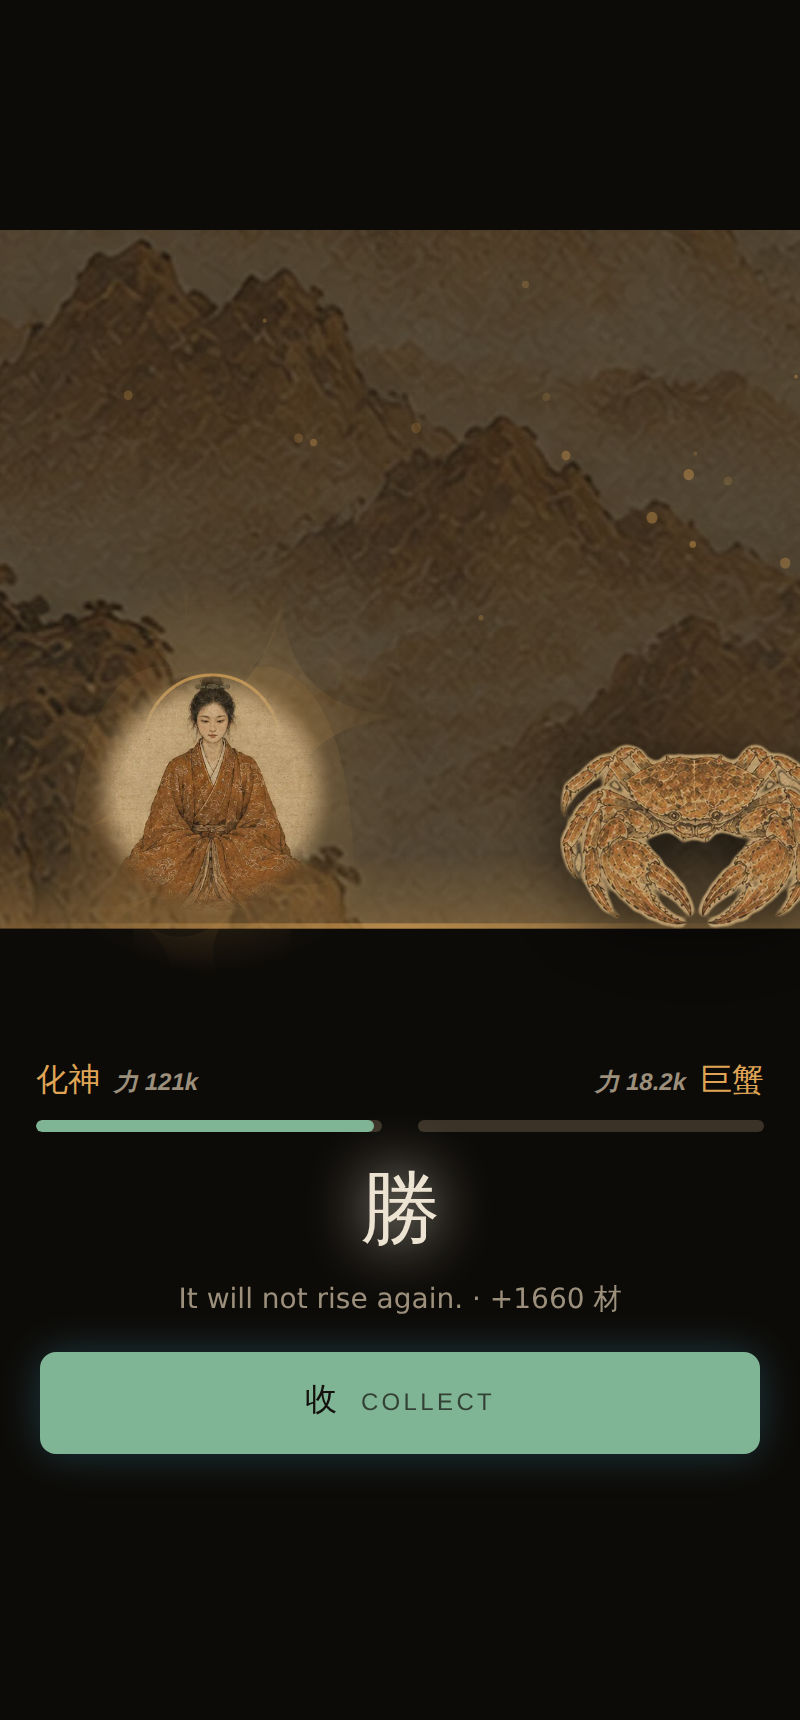
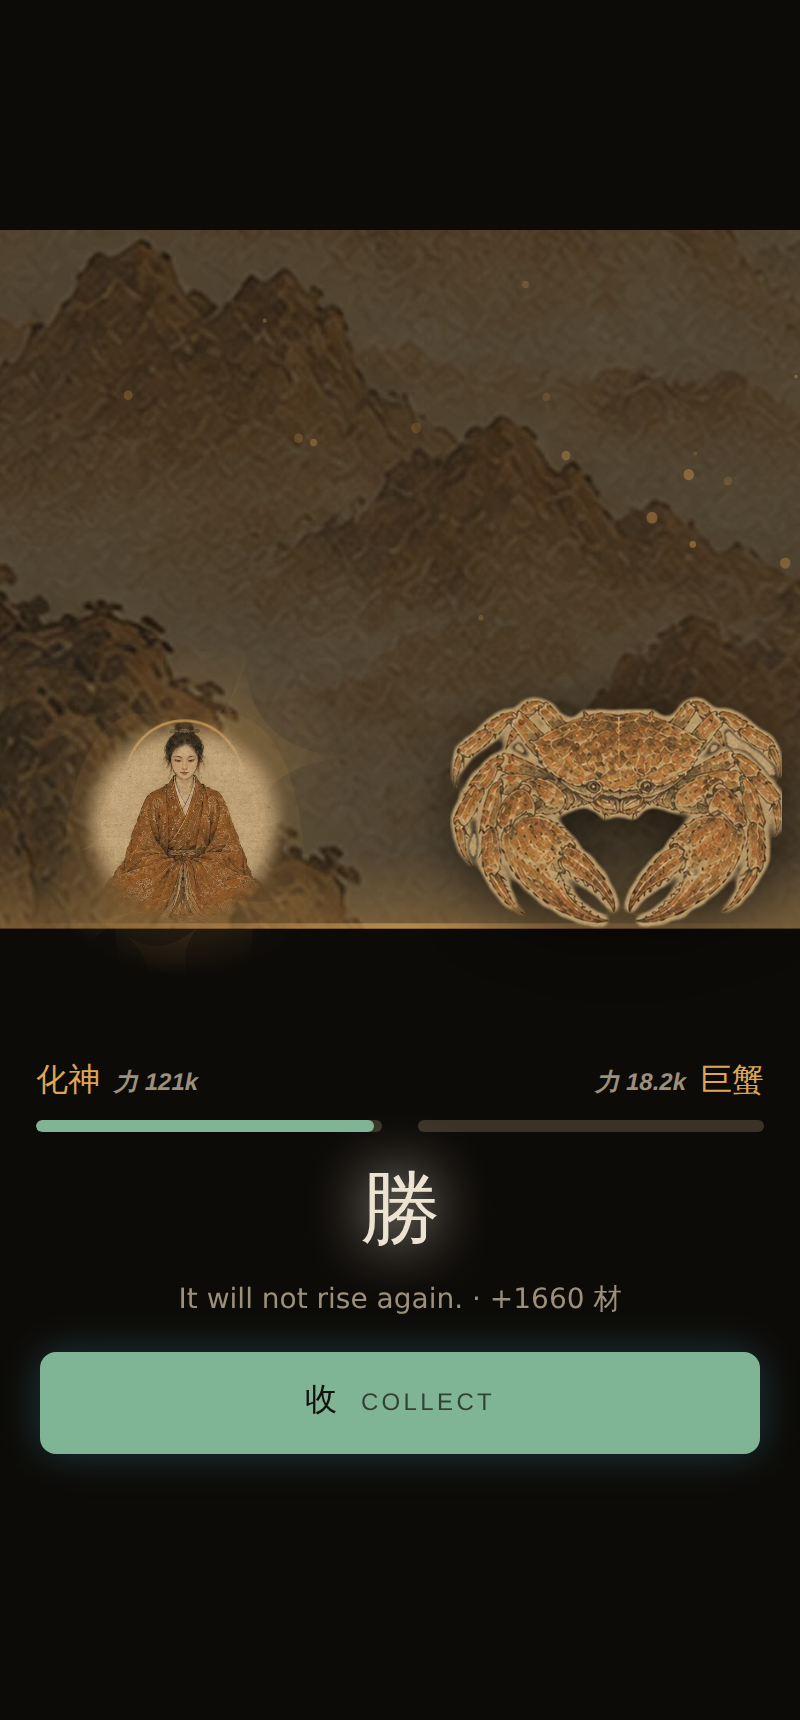
動 Four sheets in, and motion that is ink rather than light
天 the nine heavens as places, 訣 the nine arts, 悟甲 and 悟乙 the
twenty-four awakening cards. 115 of 657 painted. 境外 the Dragons and 雜
the sundries are still to come: they were in the folder and did not
arrive.

雲 The heavens landed exactly as they were asked for, and the ladder to
emptiness reads: cloud with the last peaks below it, then a starfield,
then a heaven that is very nearly bare paper.

動 And the motion Bruno asked for. Four pieces, and every one obeys the
rule the palette obeys, that **nothing emits light**:

  滲 A painting arrives by soaking into the paper rather than sliding in,
    which is the one entrance a brush has. 緣 an encounter, 符 an emblem
    and 相 the two faces all use it.
  雲 The heavens drift, ninety seconds for a pass, because a heaven is
    cloud with no ground in it. A realm's mountains stay still, because
    mountains do.
  圓光 The halo turns, once every two minutes. At that speed it is not an
    animation, it is the difference between a portrait and a photograph
    of one.
  入 The fight begins instead of appearing. She settles in from the left,
    the beast comes in from the right a beat later so the eye goes to it,
    and nothing moves on the way out, because a fight that is over is
    over.

止 All four stand down under prefers-reduced-motion. A game somebody opens
forty times a day is the wrong place to insist.

264 tests, the smoke walk, every note on the screen, and the arena still
inside the stage at all four widths.
[…]

Changed region(s): [[0.5625, 0.4006, 1.0, 0.5547], [0.0938, 0.3698, 0.4375, 0.5238]]

diff --git a/src/app/theme.css b/src/app/theme.css
@@ -1789,3 +1789,51 @@ nav.tabs button:active:not([data-shut='true']) { transform: scale(.93); }
 /* It stands exactly where the pictogram stood, so a row that used one is the row it
    always was. See ui/Emblem.tsx. */
 .emblem { display: block; object-fit: contain; border-radius: 4px; }
+
+/* ── 動 motion, in ink ─────────────────────────────────────────────────── */
+
+/* 墨 Bruno: *"tenta adicionar algumas animações e auras, brilhos etc .. conforme
+   aplicável para dar enfase."* Four of them, and every one obeys the same rule the
+   palette obeys: **nothing emits light**. A glow here is a lamp or the moon, an entrance
+   is ink meeting paper, and the only thing that moves fast is a blow landing.
+
+   止 Every one of them stands down for `prefers-reduced-motion`, at the foot of this
+   block, because a game somebody opens forty times a day is the wrong place to insist. */
+
+/* 滲 Ink meeting paper: a painting arrives by soaking in rather than sliding. It is the
+   one entrance that suits a brush, and it is used by everything that is a painting. */
+@keyframes soak {
+  from { opacity: 0; filter: blur(5px) saturate(.4); transform: scale(1.03); }
+  to   { opacity: 1; filter: blur(0) saturate(1); transform: scale(1); }
+}
+.meet .scenery, .emblem, .whom .face { animation: soak .5s ease-out both; }
+.meet .scenery { animation-duration: .7s; }
+
+/* 雲 The heavens drift. Above the ninth realm the backdrop is cloud and starfield with
+   no ground in it, so it is the one place where the scenery itself can move: ninety
+   seconds for one pass, which is slower than anybody will notice and exactly why it
+   works. A realm's mountains stay still, because mountains do. */
+@keyframes drift {
+  0%, 100% { transform: translate3d(-1.5%, 0, 0) scale(1.06); }
+  50%      { transform: translate3d(1.5%, -1%, 0) scale(1.06); }
+}
+.skyline[data-heaven='true'] { animation: drift 90s ease-in-out infinite; }
+
+/* 圓光 The halo turns. One turn every two minutes: at that speed it is not an animation,
+   it is the difference between a portrait and a photograph of one. */
+@keyframes halo { to { transform: rotate(360deg); } }
+.you .art .halo { animation: halo 120s linear infinite; }
+
+/* 入 The fight begins. Both of them arrive instead of appearing: she settles in from the
+   left, it comes in from the right, and the beast lands a beat later so the eye goes to
+   it. 退 Nothing moves on the way out, because a fight that is over is over. */
+@keyframes stepin  { from { opacity: 0; transform: translate3d(-14px, 0, 0); } }
+@keyframes stalkin { from { opacity: 0; transform: translate3d(22px, 0, 0); } }
+.arena:not([data-over='true']) .you .art { animation: stepin .45s ease-out both; }
+.arena:not([data-over='true']) .foe .art { animation: stalkin .5s .12s ease-out both; }
+
+@media (prefers-reduced-motion: reduce) {
+  .meet .scenery, .emblem, .whom .face,
+  .skyline[data-heaven='true'], .you .art .halo,
+  .arena .you .art, .arena .foe .art { animation: none; }
+}

diff --git a/src/art/aura.ts b/src/art/aura.ts
@@ -52,9 +52,12 @@ export function portrait({ realm, pulse = 0, focus = false, who = null }: Portra
     return `<g transform="translate(${off.toFixed(1)} ${off.toFixed(1)}) scale(${(side / 512).toFixed(4)})" fill="${r.colour}" opacity="${op.toFixed(2)}">${body}</g>`;
   }).join('');
 
-  const halos = Array.from({ length: r.halos }, (_, i) =>
-    `<circle cx="${S / 2}" cy="${S * 0.42}" r="${(S * (0.17 + i * 0.09) * breath).toFixed(1)}" fill="none" stroke="${r.colour}" stroke-width="${(1.5 - i * 0.4).toFixed(1)}" stroke-opacity="${(0.75 - i * 0.2).toFixed(2)}"/>`,
-  ).join('');
+  // 圓光 The halo is grouped and named so 動 the motion block can turn it, very slowly,
+  // about the head it sits behind rather than about the middle of the picture.
+  const halos = r.halos === 0 ? '' : `<g class="halo" style="transform-origin:${S / 2}px ${(S * 0.42).toFixed(1)}px">${
+    Array.from({ length: r.halos }, (_, i) =>
+      `<circle cx="${S / 2}" cy="${S * 0.42}" r="${(S * (0.17 + i * 0.09) * breath).toFixed(1)}" fill="none" stroke="${r.colour}" stroke-width="${(1.5 - i * 0.4).toFixed(1)}" stroke-opacity="${(0.75 - i * 0.2).toFixed(2)}" stroke-dasharray="${i % 2 ? '5 9' : '0'}"/>`,
+    ).join('')}</g>`;
 
   const core = mix(r.colour, '#FFFFFF', 0.25 + 0.6 * t);
   const figure = ICONS.meditation ?? '';

diff --git a/src/data/pictures.ts b/src/data/pictures.ts
@@ -91,7 +91,17 @@ export const PICTURES: Readonly<Record<Painted, readonly string[]>> = {
     '8',
     '9',
   ],
-  heaven: [],
+  heaven: [
+    '1',
+    '2',
+    '3',
+    '4',
+    '5',
+    '6',
+    '7',
+    '8',
+    '9',
+  ],
   cut: [
     'ape',
     'bat',
@@ -162,7 +172,41 @@ export const PICTURES: Readonly<Record<Painted, readonly string[]>> = {
     'stele',
     'swordsman',
   ],
-  emblem: [],
+  emblem: [
+    'art-ape',
+    'art-crane',
+    'art-dragon',
+    'art-fox',
+    'art-puppet',
+    'art-serpent',
+    'art-tiger',
+    'art-turtle',
+    'art-wolf',
+    'card-dew',
+    'card-discern',
+    'card-everywhere',
+    'card-feast',
+    'card-furnacefire',
+    'card-heat',
+    'card-heavencraft',
+    'card-heavenward',
+    'card-hoard',
+    'card-insight',
+    'card-kindling',
+    'card-luckystar',
+    'card-onethought',
+    'card-pack',
+    'card-platform',
+    'card-seeclear',
+    'card-slaughter',
+    'card-sleeves',
+    'card-stonegold',
+    'card-taotie',
+    'card-tenthousand',
+    'card-whale',
+    'card-wildfire',
+    'card-wolf',
+  ],
 };
 
 /** Where a picture lives, if it exists. Null is the normal answer for now. */

diff --git a/src/app/ui/Arena.tsx b/src/app/ui/Arena.tsx
@@ -147,7 +147,7 @@ export function Arena({ battle, state, pulse, onClose, chestFull }: {
       <div className="stage">
         {/* 畫 The realm's own landscape, behind the fight, where there is one. The drawn
             sky and ridges stand down for it: see art/scene.ts. */}
-        {sky && <img className="skyline" src={sky} alt="" aria-hidden="true" />}
+        {sky && <img className="skyline" data-heaven={!!aboveSummit} src={sky} alt="" aria-hidden="true" />}
         <div className="scene"><Svg html={arenaScene(beast.realm, !!sky)} /></div>
 
         {/* 訣 The art firing. It is the payoff for the whole sequence screen, so it gets
